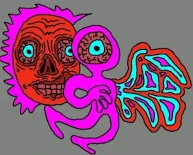
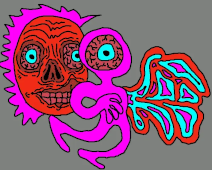
fix thumbnails and css

diff --git a/style/layout.css b/style/layout.css
@@ -11,6 +11,10 @@
   justify-content: center;
   height: 100%;
   width: 100%;
+  min-width: calc(var(--site-width) + 100px);
+  max-width: calc(var(--site-width) + 100px);
+  margin-left: auto;
+  margin-right: auto;
 }
 
 .title {
@@ -56,11 +60,4 @@
   text-align: center;
   border-top: 1px solid var(--fg);
   padding: var(--padding-top);
-}
-
-body {
-  min-width: calc(var(--site-width) + 100);
-  max-width: calc(var(--site-width) + 100);
-  margin-left: auto;
-  margin-right: auto;
 }

diff --git a/imports/technology.html b/imports/technology.html
@@ -1,5 +1,6 @@
 <h1>Technology...</h1>
 <p>What I use/own/host/etc.</p>
+<p><a href="fetch.php" target="_blank">Click here to see my system fetch</a>.</p>
 <hr>
 <br>
 <h2>This Server</h2>
